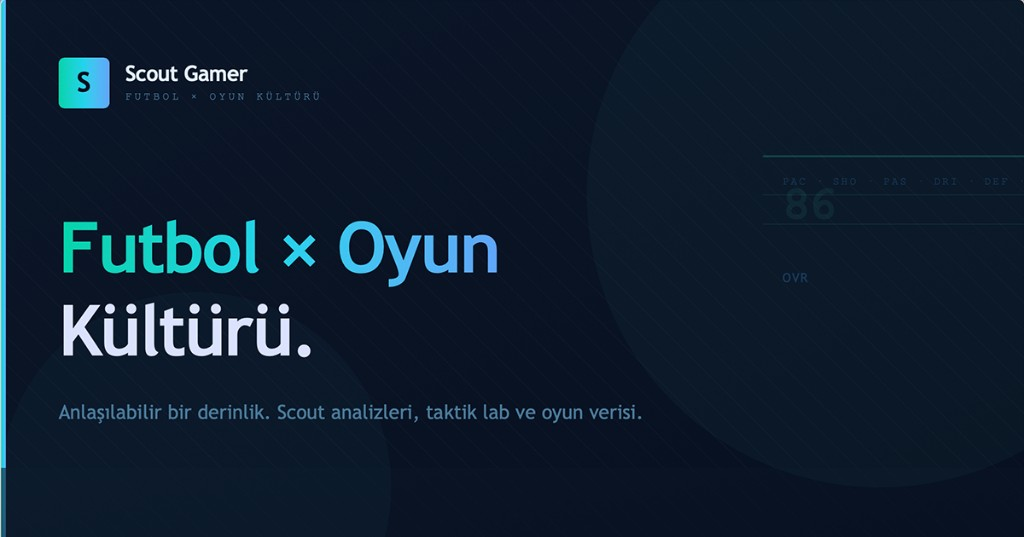
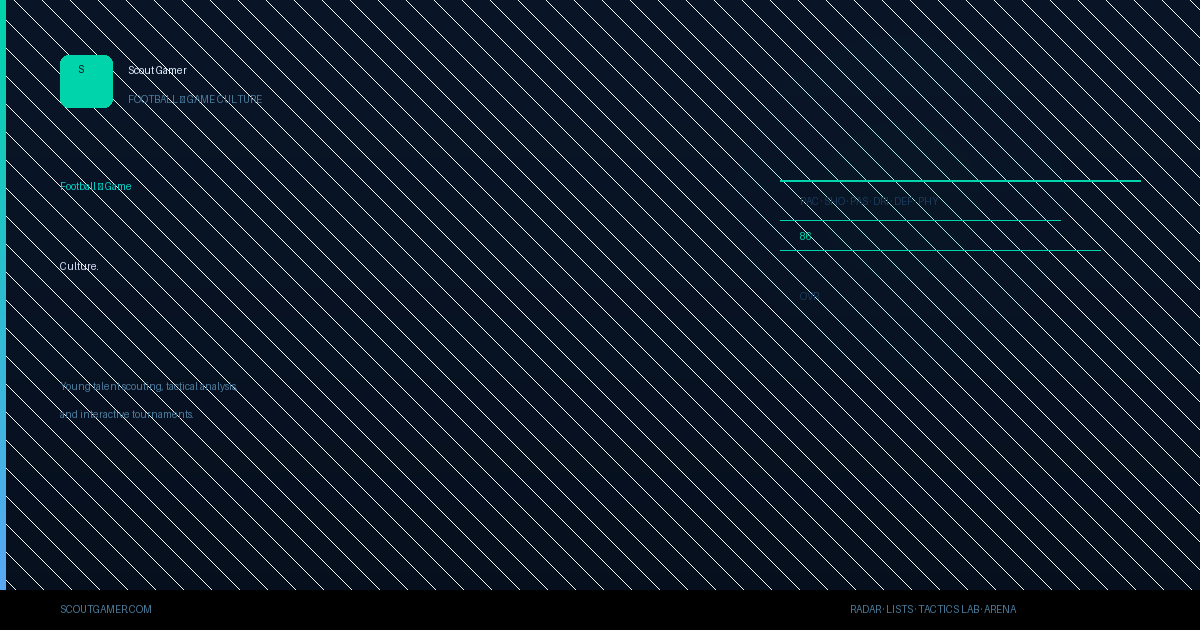
fix: replace Turkish OG image with dynamic English opengraph-image
Added app/opengraph-image.tsx using Next.js ImageResponse for
high-quality server-rendered OG image with English content matching
the current site identity. Updated SVG source to English as well.

diff --git a/app/opengraph-image.tsx b/app/opengraph-image.tsx
@@ -1,0 +1,151 @@
+import { ImageResponse } from "next/og";
+
+export const runtime = "edge";
+export const alt = "Scout Gamer — Football × Game Culture";
+export const size = { width: 1200, height: 630 };
+export const contentType = "image/png";
+
+export default function OgImage() {
+  return new ImageResponse(
+    (
+      <div
+        style={{
+          width: "100%",
+          height: "100%",
+          display: "flex",
+          flexDirection: "column",
+          justifyContent: "space-between",
+          background: "linear-gradient(135deg, #0a1628 0%, #060f1e 100%)",
+          padding: "60px",
+          fontFamily: "sans-serif",
+          position: "relative",
+          overflow: "hidden",
+        }}
+      >
+        {/* Subtle glow */}
+        <div
+          style={{
+            position: "absolute",
+            right: -80,
+            top: -80,
+            width: 500,
+            height: 500,
+            borderRadius: "50%",
+            background: "radial-gradient(circle, rgba(0,212,170,0.08) 0%, transparent 70%)",
+          }}
+        />
+
+        {/* Left accent bar */}
+        <div
+          style={{
+            position: "absolute",
+            left: 0,
+            top: 0,
+            width: 6,
+            height: "100%",
+            background: "linear-gradient(180deg, #00d4aa, #22d3ee, #60a5fa)",
+          }}
+        />
+
+        {/* Top: Logo */}
+        <div style={{ display: "flex", alignItems: "center", gap: 16 }}>
+          <div
+            style={{
+              width: 52,
+              height: 52,
+              borderRadius: 8,
+              background: "linear-gradient(135deg, #00d4aa, #22d3ee)",
+              display: "flex",
+              alignItems: "center",
+              justifyContent: "center",
+              fontSize: 28,
+              fontWeight: 700,
+              color: "#060f1e",
+            }}
+          >
+            S
+          </div>
+          <div style={{ display: "flex", flexDirection: "column" }}>
+            <span style={{ fontSize: 24, fontWeight: 700, color: "#e0f0ff", letterSpacing: "-0.02em" }}>
+              Scout Gamer
+            </span>
+            <span style={{ fontSize: 12, color: "#4a7a9a", letterSpacing: "0.2em", fontFamily: "monospace" }}>
+              FOOTBALL × GAME CULTURE
+            </span>
+          </div>
+        </div>
+
+        {/* Center: Headline */}
+        <div style={{ display: "flex", flexDirection: "column", gap: 0, marginTop: -20 }}>
+          <span
+            style={{
+              fontSize: 76,
+              fontWeight: 700,
+              letterSpacing: "-0.03em",
+              lineHeight: 1.05,
+              background: "linear-gradient(135deg, #00d4aa, #22d3ee, #60a5fa)",
+              backgroundClip: "text",
+              color: "transparent",
+            }}
+          >
+            Football × Game
+          </span>
+          <span
+            style={{
+              fontSize: 76,
+              fontWeight: 700,
+              letterSpacing: "-0.03em",
+              lineHeight: 1.05,
+              color: "#dae2fd",
+            }}
+          >
+            Culture.
+          </span>
+          <span style={{ fontSize: 20, color: "#4a7a9a", marginTop: 24 }}>
+            Young talent scouting, tactical analysis, and interactive tournaments.
+          </span>
+        </div>
+
+        {/* Bottom bar */}
+        <div
+          style={{
+            display: "flex",
+            justifyContent: "space-between",
+            alignItems: "center",
+            borderTop: "1px solid rgba(74,122,154,0.3)",
+            paddingTop: 16,
+          }}
+        >
+          <span style={{ fontSize: 13, color: "#4a7a9a", letterSpacing: "0.15em", fontFamily: "monospace" }}>
+            WWW.SCOUTGAMER.COM
+          </span>
+          <span style={{ fontSize: 13, color: "#4a7a9a", letterSpacing: "0.1em", fontFamily: "monospace" }}>
+            RADAR · LISTS · TACTICS LAB · ARENA
+          </span>
+        </div>
+
+        {/* Decorative right side stats */}
+        <div
+          style={{
+            position: "absolute",
+            right: 80,
+            top: 160,
+            display: "flex",
+            flexDirection: "column",
+            gap: 8,
+            opacity: 0.15,
+          }}
+        >
+          <span style={{ fontSize: 12, color: "#22d3ee", letterSpacing: "0.2em", fontFamily: "monospace" }}>
+            PAC · SHO · PAS · DRI · DEF
+          </span>
+          <span style={{ fontSize: 56, fontWeight: 700, color: "#00d4aa", fontFamily: "monospace", letterSpacing: "-0.05em" }}>
+            86
+          </span>
+          <span style={{ fontSize: 14, color: "#22d3ee", letterSpacing: "0.15em" }}>OVR</span>
+        </div>
+      </div>
+    ),
+    { ...size },
+  );
+}

diff --git a/app/layout.tsx b/app/layout.tsx
@@ -37,7 +37,6 @@ export const metadata: Metadata = {
     siteName: "Scout Gamer",
     locale: "en_US",
     url: "https://www.scoutgamer.com",
-    images: [{ url: "https://www.scoutgamer.com/og-image.png", width: 1200, height: 630, alt: "Scout Gamer" }],
   },
   twitter: {
     card: "summary_large_image",